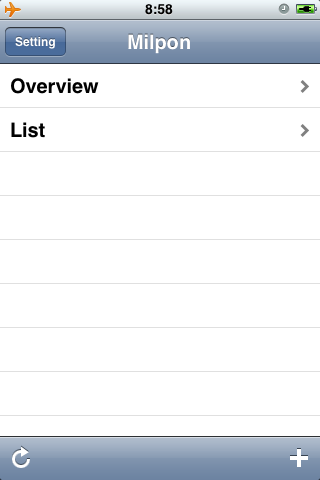
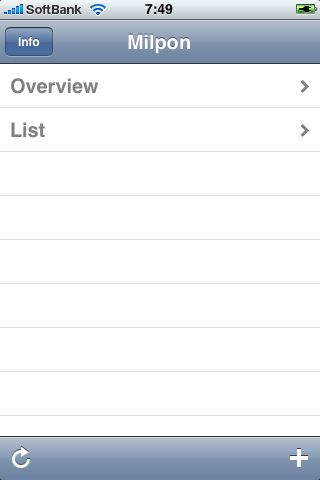
fixed the issue pointed by AppStore review. no use TableView for Info display (to avoid "no feedback in tapping TableViewCell").

diff --git a/controller/ConfigViewController.m b/controller/ConfigViewController.m
@@ -15,9 +15,9 @@
 
 @synthesize rootViewController;
 
-- (id)initWithStyle:(UITableViewStyle)style
+- (id) initWithNibName:(NSString *)nibName bundle:(NSBundle *)bundle
 {
-   if (self = [super initWithStyle:style]) {
+   if (self = [super initWithNibName:nibName bundle:bundle]) {
       CGRect appFrame = [[UIScreen mainScreen] applicationFrame];
 
       activityIndicator = [[UIActivityIndicatorView alloc] initWithActivityIndicatorStyle:UIActivityIndicatorViewStyleGray];
@@ -36,55 +36,32 @@
    [doneButton release];
 
    [self.view addSubview:activityIndicator];
-}
 
-- (NSInteger)numberOfSectionsInTableView:(UITableView *)tableView
-{
-   return 1;
-}
+   UIButton *reloadButton = [UIButton buttonWithType:UIButtonTypeRoundedRect];
+   reloadButton.frame = CGRectMake(20, 32, 280, 32);
+   [reloadButton setTitle:@"refresh all local data (long wait)" forState:UIControlStateNormal];
+   [reloadButton addTarget:self action:@selector(fetchAll) forControlEvents:UIControlEventTouchDown];
+   [self.view addSubview:reloadButton];
 
-- (NSInteger)tableView:(UITableView *)tableView numberOfRowsInSection:(NSInteger)section
-{
-   return CONFIG_COUNT;
-}
+   UIButton *feedbackButton = [UIButton buttonWithType:UIButtonTypeRoundedRect];
+   feedbackButton.frame = CGRectMake(20, 96, 280, 32);
+   [feedbackButton setTitle:@"Send Feedback" forState:UIControlStateNormal];
+   [feedbackButton addTarget:self action:@selector(emailFeedback) forControlEvents:UIControlEventTouchDown];
+   [self.view addSubview:feedbackButton];
 
-- (UITableViewCell *)tableView:(UITableView *)tableView cellForRowAtIndexPath:(NSIndexPath *)indexPath
-{
-   static NSString *CellIdentifier = @"ConfigViewCell";
+   UIImage *iconImage = [[UIImage alloc] initWithContentsOfFile:
+         [[[NSBundle mainBundle] resourcePath] stringByAppendingPathComponent:@"MilponIconSmall.png"]];
+   UIImageView *iconImageView = [[UIImageView alloc] initWithImage:iconImage];
+   iconImageView.center = CGPointMake(160, 96+32*2+28); // 132, 96+32*2, 57, 57);
+   [self.view addSubview:iconImageView];
+   [iconImage release];
 
-   UITableViewCell *cell = [tableView dequeueReusableCellWithIdentifier:CellIdentifier];
-   if (cell == nil) {
-      cell = [[[UITableViewCell alloc] initWithFrame:CGRectZero reuseIdentifier:CellIdentifier] autorelease];
-   }
-   // Configure the cell
-   switch (indexPath.row) {
-      case CONFIG_RELOAD: {
-         cell.text = @"fetch all data from RTM site (long wait)";
-         cell.font = [UIFont systemFontOfSize:12];
+   UILabel *versionLabel = [[UILabel alloc] initWithFrame:CGRectMake(20, 96+32*2+28+28+12, 280, 32)];
+   versionLabel.font = [UIFont systemFontOfSize:14];
+   versionLabel.text = [NSString stringWithFormat:@"rev %s", VERSION];
+   [self.view addSubview:versionLabel];
+   [versionLabel release];
 
-         UIButton *reloadButton = [UIButton buttonWithType:UIButtonTypeRoundedRect];
-         reloadButton.frame = CGRectMake(240, 8, 72, 32);
-         [reloadButton setTitle:@"fetch all" forState:UIControlStateNormal];
-         [reloadButton addTarget:self action:@selector(fetchAll) forControlEvents:UIControlEventTouchDown];
-         [cell.contentView addSubview:reloadButton];
-
-         break;
-      }
-      case CONFIG_FEEDBACK: {
-         UIButton *feedbackButton = [UIButton buttonWithType:UIButtonTypeRoundedRect];
-         feedbackButton.frame = CGRectMake(160, 8, 128, 32);
-         [feedbackButton setTitle:@"Send Feedback" forState:UIControlStateNormal];
-         [feedbackButton addTarget:self action:@selector(emailFeedback) forControlEvents:UIControlEventTouchDown];
-         [cell.contentView addSubview:feedbackButton];
-         break;
-      }
-      case CONFIG_VERSION:
-         cell.text = [NSString stringWithUTF8String:VERSION];
-         break;
-      default:
-         break;
-   }
-   return cell;
 }
 
 - (void)dealloc
@@ -112,10 +89,10 @@
 
 - (IBAction) emailFeedback
 {  
-   NSString *subject = @"subject=Milpon Feedback";  
+   NSString *subject = [NSString stringWithFormat:@"subject=Milpon Feedback %s", VERSION];
    NSString *mailto = [NSString stringWithFormat:@"mailto:mootoh@gmail.com?%@", [subject stringByAddingPercentEscapesUsingEncoding:NSUTF8StringEncoding]];
-   NSURL *url = [NSURL URLWithString:mailto];  
-   [[UIApplication sharedApplication] openURL:url];  
+   NSURL *url = [NSURL URLWithString:mailto];
+   [[UIApplication sharedApplication] openURL:url];
 }  
 
 @end

diff --git a/controller/MenuViewController.m b/controller/MenuViewController.m
@@ -28,7 +28,7 @@
 {
    [super loadView];
 
-   UIBarButtonItem *configButton = [[UIBarButtonItem alloc] initWithTitle:@"Setting" style:UIBarButtonItemStylePlain target:self action:@selector(config)];
+   UIBarButtonItem *configButton = [[UIBarButtonItem alloc] initWithTitle:@"Info" style:UIBarButtonItemStylePlain target:self action:@selector(config)];
    self.navigationItem.leftBarButtonItem = configButton;
    [configButton release];
 }
@@ -153,6 +153,7 @@
    self.bottomBar.hidden = YES;
 
    ConfigViewController *ctrl = [[ConfigViewController alloc] initWithNibName:nil bundle:nil];
+   ctrl.title = @"Info";
    ctrl.rootViewController = self.rootViewController;
 
    UINavigationController *modalController = [[UINavigationController alloc] initWithRootViewController:ctrl];

diff --git a/controller/ConfigViewController.h b/controller/ConfigViewController.h
@@ -10,15 +10,8 @@
 
 @class RootViewController;
 
-@interface ConfigViewController : UITableViewController
+@interface ConfigViewController : UIViewController
 {
-   enum {
-      CONFIG_RELOAD,
-      CONFIG_FEEDBACK,
-      CONFIG_VERSION,
-      CONFIG_COUNT
-   } types;
-
    RootViewController *rootViewController;
    UIActivityIndicatorView *activityIndicator;
 }
